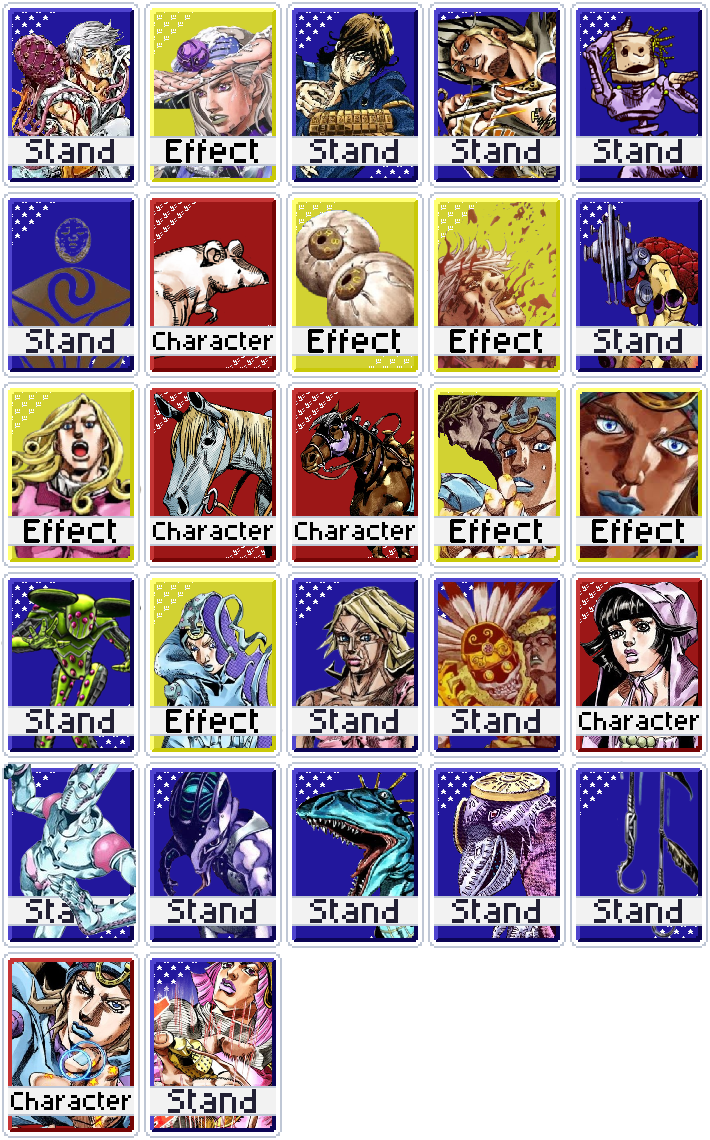
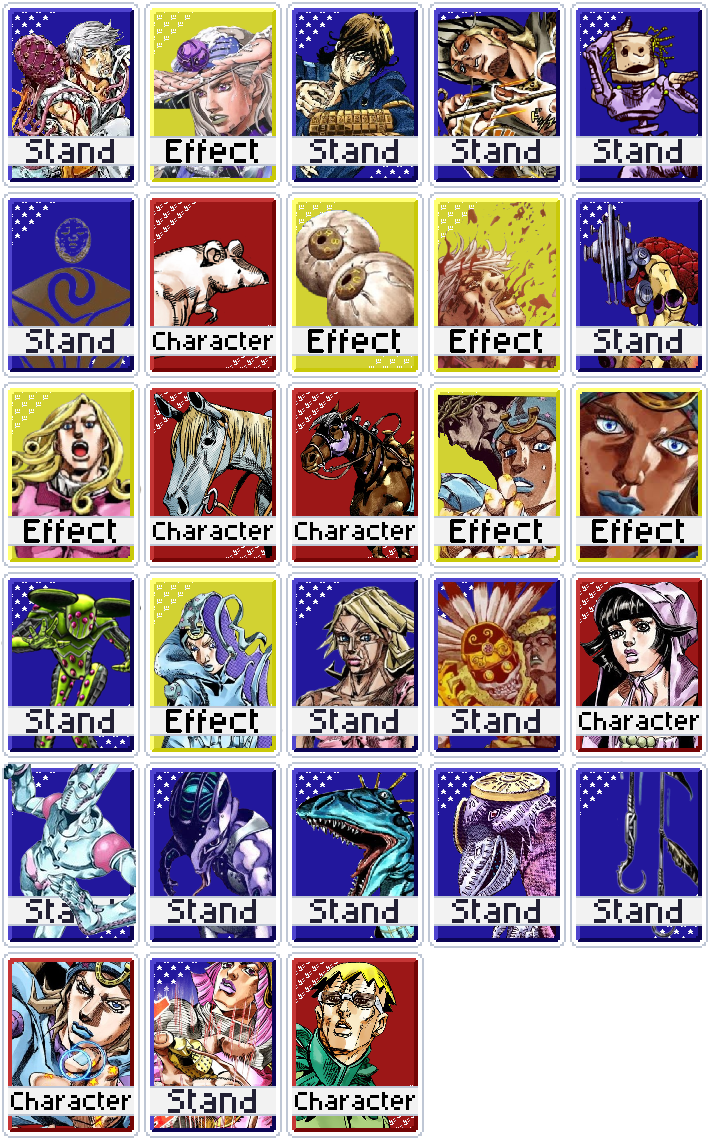
Add Steven Steel joker

Changed region(s): [[0.4028, 0.8289, 0.5887, 1.0]]

diff --git a/compendium/labels.py b/compendium/labels.py
@@ -45,7 +45,7 @@ LABELS = Labels(
         'stone_steel_eater': ('Stone & Steel eater', 'Spice Girl strips Stone and Steel for permanent gains; I Am a Rock and Doctor Wu supply the Stone.'),
         'permanent_buff_eater': ('Permanent buff eater', 'Highway Star drains the extra chips and mult off scoring cards for itself; these keep piling them on.'),
         'glass_cards': ('Glass cards', 'John Rod pays extra for Glass cards; Love Train keeps the rest of your Glass from shattering.'),
-        'steel_gold_cards': ('Steel & Gold cards', 'Metallica grows from scored Steel and Gold cards and Jodio Joestar cashes in scored Gold; Silver Chariot multiplies for each scored Steel card; Blue Hawaii spreads them across the hand.'),
+        'steel_gold_cards': ('Steel & Gold cards', 'Metallica grows from scored Steel and Gold cards and Jodio Joestar cashes in scored Gold; Silver Chariot multiplies for each scored Steel card; Blue Hawaii spreads them across the hand; Steven Steel pays out for every Steel card in the deck.'),
         'seals': ('Seals', 'Atom Heart Father grows with seals in the deck; these add seals.'),
         'retriggers': ('Retriggers', 'Moody Blues, Mandom and Clacker Balls retrigger any card, so they stack with every other retrigger.'),
         'score_every_card': ('Score every card', 'Splash and Stone cards make every played card score, for jokers that pay per scored card.'),
@@ -110,6 +110,7 @@ LABELS = Labels(
         'strips_the_stone_cards_these': 'strips the Stone cards these rely on',
         'strips_the_enhancements_spice_girl': 'strips the enhancements Spice Girl wants to eat',
         'strips_the_metal_cards_metallica': 'strips the Steel or Gold cards Metallica grows from',
+        'strips_the_steel_cards_steven_steel': 'strips the Steel cards Steven Steel pays out for',
         'destroys_the_queens_suzi_q': 'destroys the Queens Suzi Q wants scored',
         'self_destructs_when_your_score': 'self-destructs when your score catches fire',
         'resets_when_your_score_catches': 'resets when your score catches fire',

diff --git a/compendium/tests/test_mod_data.py b/compendium/tests/test_mod_data.py
@@ -56,5 +56,5 @@ def test_similar_groups(rel):
 def test_counts_match_themes_doc(mod):
     themes = {t for j in mod.jokers for t in j.themes_core + j.themes_support}
     assert len(themes) == 61
-    assert sum(len(j.conflicts) for j in mod.jokers) == 121
+    assert sum(len(j.conflicts) for j in mod.jokers) == 123
     assert len({g for j in mod.jokers for g in j.similar}) == 27

diff --git a/compendium/tests/test_build.py b/compendium/tests/test_build.py
@@ -28,7 +28,7 @@ def test_outputs_exist(site):
 
 
 def test_data_has_every_joker(data):
-    assert len(data["jokers"]) == 202 and data["version"] == "v9.9.9"
+    assert len(data["jokers"]) == 203 and data["version"] == "v9.9.9"
     assert len(data["themes"]) == 61
 
 

diff --git a/compendium/tests/test_lua_env.py b/compendium/tests/test_lua_env.py
@@ -7,7 +7,7 @@ def find(mod, key):
 
 
 def test_loads_every_joker(mod):
-    assert len(mod.jokers) == 202
+    assert len(mod.jokers) == 203
 
 
 def test_order_is_collection_order(mod):
